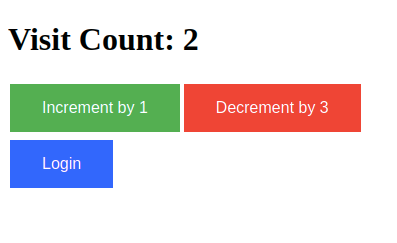
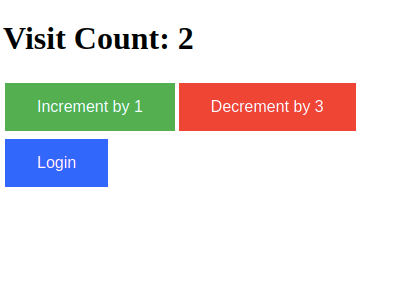
Sample outputs with same size

Changed region(s): [[0.0, 0.2593, 0.9137, 0.7778], [0.0, 0.0864, 0.5178, 0.2305]]

diff --git a/README.md b/README.md
@@ -4,7 +4,7 @@ This project helps to understand using redux in react to manage store
 
 *Sample output:*
 
-![Sample output](public/SampleOutput1.png?raw=1) ![Sample output](public/SampleOutput2.png?raw=1)
+![Sample output](public/SampleOutput1.png?raw=1) &nbsp; ![Sample output](public/SampleOutput2.png?raw=1)
 
 ## How to use
 
